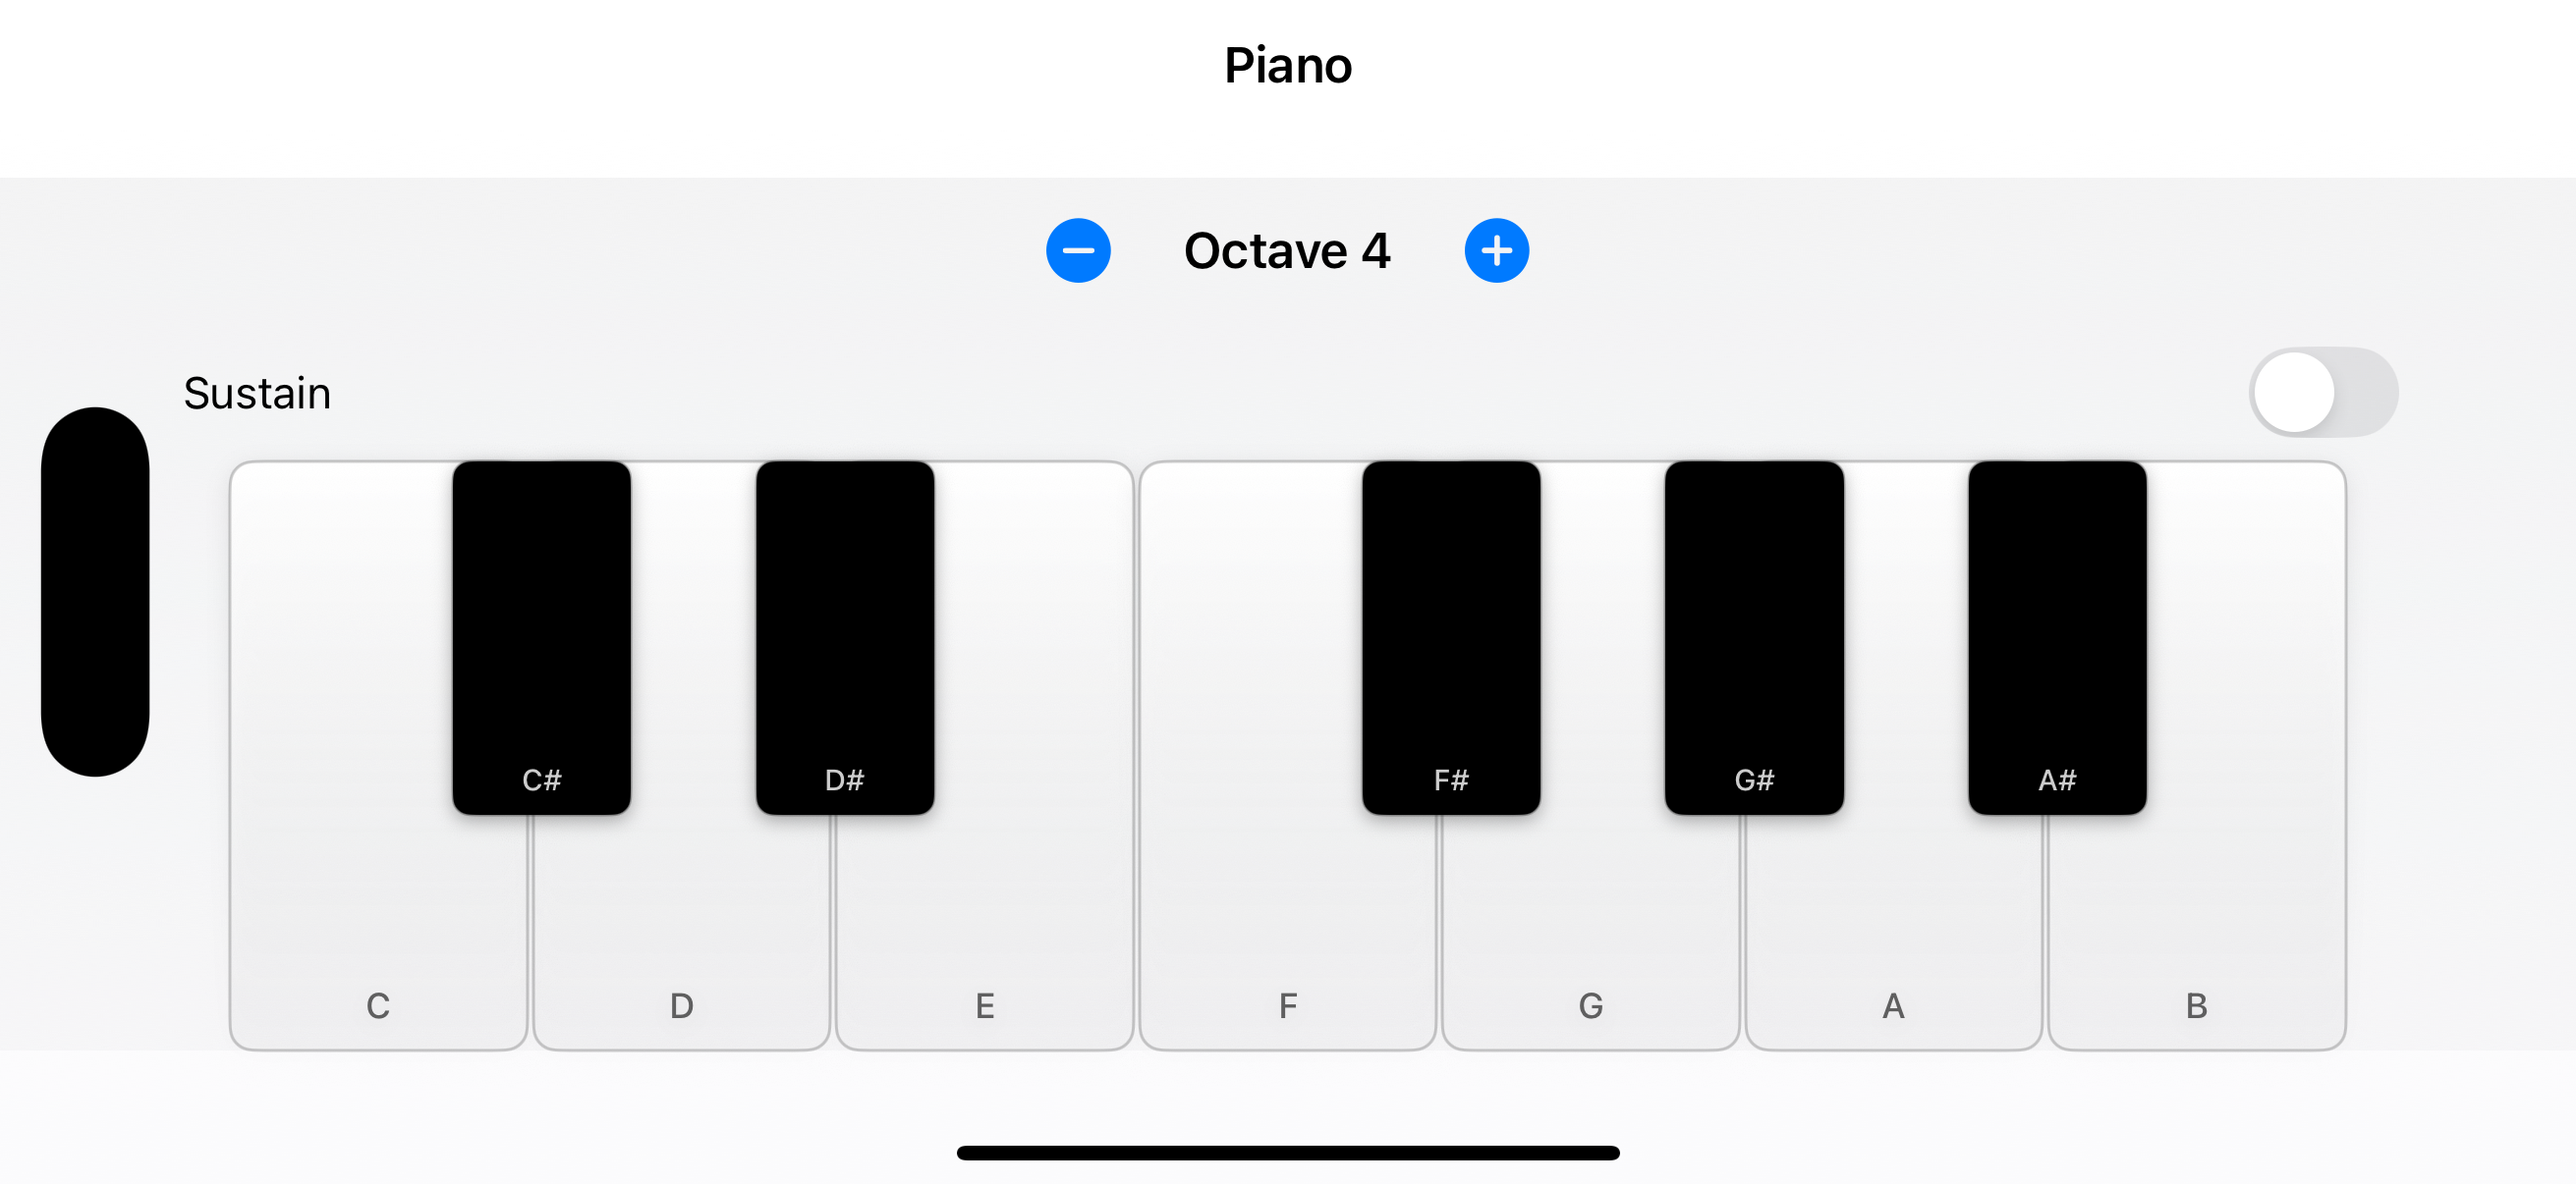
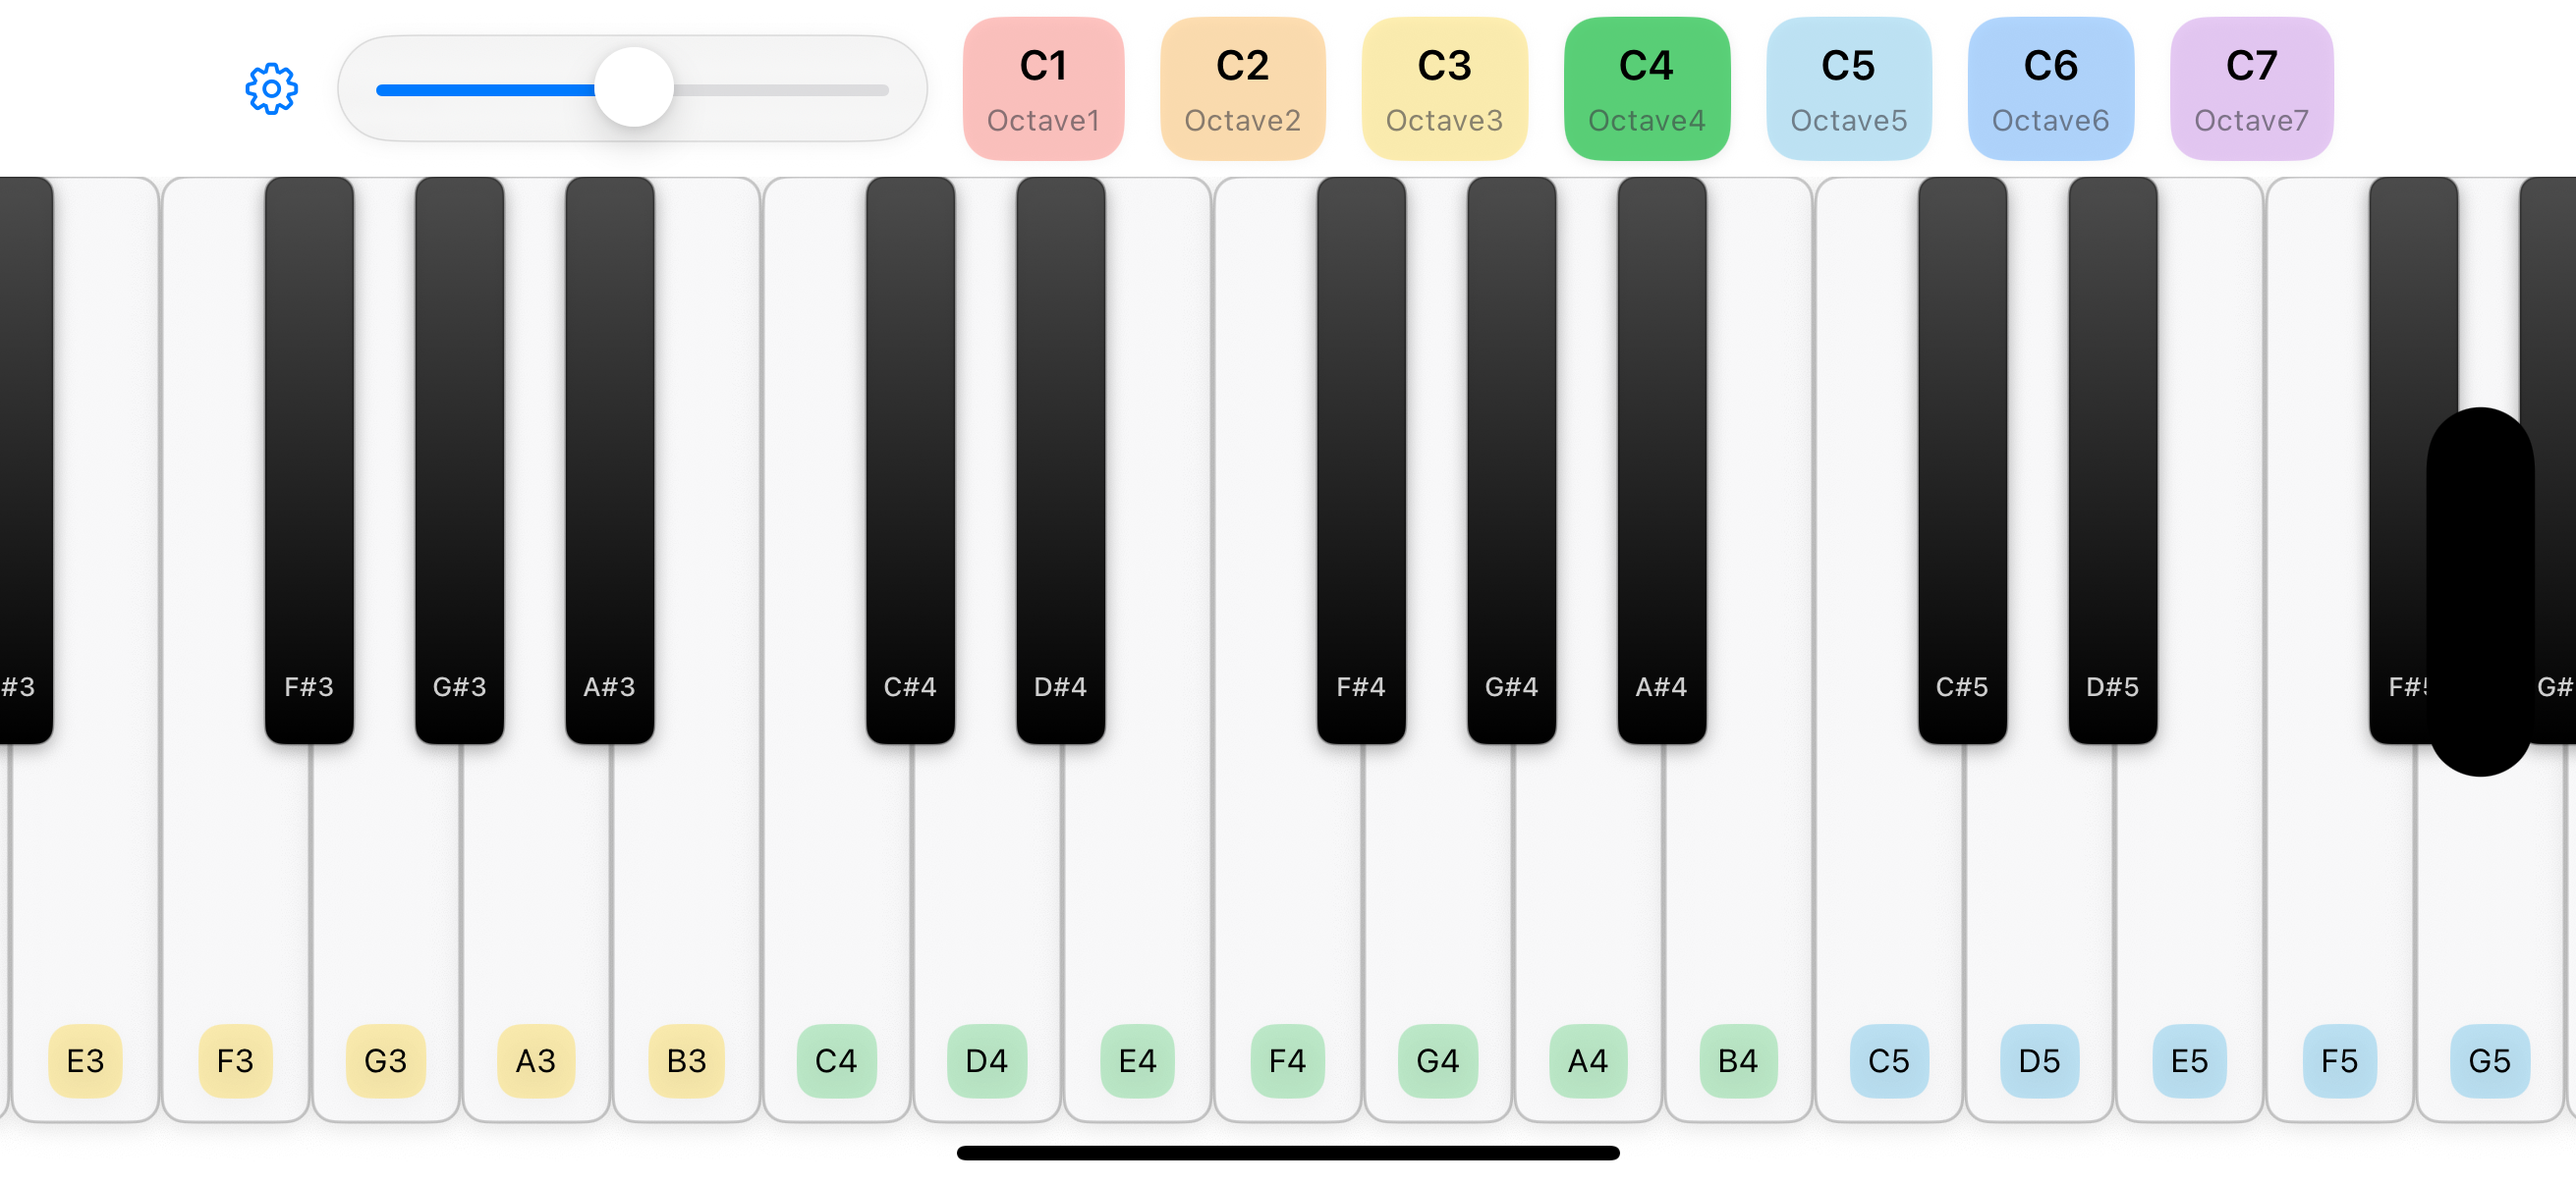
Update readme

diff --git a/README.md b/README.md
@@ -1,97 +1,95 @@
 ## 🎹 Piano
 
-A simple, fast, and accessible iOS piano keyboard built with SwiftUI and AVAudioEngine. It uses MVVM with Swift Concurrency and the `@Observable` macro to manage view state, and loads a SoundFont (`Piano.sf2`) for realistic piano playback.
+A modern, responsive iOS piano keyboard built with SwiftUI and AVAudioEngine. Features a scrollable 7-octave keyboard with customizable settings, haptic feedback, and realistic piano sound using SoundFont technology.
 
 <img src="screenshots/1.png" alt="Piano screenshot" width="480" />
 
 ### ✨ Features
-- 🎵 Play piano notes with low-latency audio
-- 🧭 SwiftUI interface with responsive keys
-- 🧠 MVVM with `@Observable` and `@MainActor`-scoped ViewModels
-- 🎛 SoundFont-backed timbre via `AVAudioUnitSampler`
-- 🧩 Lightweight model types for notes and keys
+- **🎹 7-Octave Keyboard**: Full piano range from C1 to B7 with smooth horizontal scrolling
+- **🧭 Interactive Navigation**: Octave buttons and scroll slider for quick navigation
+- **⚙ Customizable Settings**: Adjustable key width, key name display options, and haptic feedback
+- **🎵 Realistic Audio**: SoundFont-backed piano sound with low-latency playback
+- **📱 Modern UI**: SwiftUI interface with responsive keys and smooth animations
+- **🏗 MVVM Architecture**: Clean separation with `@Observable` view models and Swift concurrency
 
-### 🧱 Architecture
-- **Pattern**: MVVM
-- **ViewModel**: Annotated with `@Observable` and `@MainActor` to ensure UI-safe state updates
-- **Concurrency**: Uses Swift concurrency instead of Combine for async work
-- **Audio**: `AVAudioEngine` + `AVAudioUnitSampler` to load and play `Piano.sf2`
+### 🏗 Architecture
+- **📋 Pattern**: MVVM with Swift concurrency
+- **🎛 ViewModel**: `@Observable` and `@MainActor`-scoped for UI-safe state management
+- **🔊 Audio**: `AVAudioEngine` + `AVAudioUnitSampler` for SoundFont playback
+- **💾 State Management**: User preferences stored with `@AppStorage`
 
-High-level flow:
-- 📱 `View` renders keys and forwards user interactions to `ViewModel`
-- 🎚 `ViewModel` updates state and invokes `AudioEngine` services
-- 🔊 `Service` handles audio session, engine graph, and SoundFont loading
+**🔄 Data Flow**:
+- 📱 `PianoView` renders the scrollable keyboard and handles user interactions
+- 🎚 `PianoViewModel` manages key state, scroll position, and audio playback
+- 🔊 `AudioEngine` service handles audio session and SoundFont loading
+- ⚙ `SettingsView` provides customization options with persistent storage
 
 ### 🛠 Requirements
-- Xcode 15 or later
-- iOS 17 or later (SwiftUI `@Observable` macro)
-- macOS Sonoma or later for development
+- 💻 Xcode 15 or later
+- 📱 iOS 17 or later (SwiftUI `@Observable` macro)
+- 🖥 macOS Sonoma or later for development
 
-### 🚀 Getting started
-1. Clone the repository
+### 🚀 Getting Started
+1. 📥 Clone the repository
 ```bash
 git clone https://github.com/banghuazhao/Piano.git
 cd Piano
 ```
-2. Open the project in Xcode
+2. 🔧 Open the project in Xcode
 ```bash
 open Piano.xcodeproj
 ```
-3. Select the `Piano` scheme and a simulator or device, then Run.
+3. ▶ Select the `Piano` scheme and a simulator or device, then Run.
 
-If you replace the SoundFont, put your `.sf2` file in `Piano/Sound/` and update the load call if needed.
+**📝 Note**: If you replace the SoundFont, put your `.sf2` file in `Piano/Sound/` and update the load call if needed.
 
-### 🗂 Project structure
+### 📁 Project Structure
 ```text
 Piano/
-  App/                 # App entry (`PianoApp.swift`)
-  Sound/               # SoundFont (`Piano.sf2`)
-  Assets.xcassets/     # App icons and colors
-  Config/              # Build configurations
-  Model/               # `PianoKey`, `PianoNote`
-  Service/             # `AudioEngine`
-  View/                # `ContentView`, `PianoKeyboardView`, `PianoKeyView`
-  ViewModel/           # `PianoViewModel`
+  App/                 # 🚀 App entry point (`PianoApp.swift`)
+  Sound/               # 🎵 SoundFont file (`Piano.sf2`)
+  Assets.xcassets/     # 🎨 App icons and colors
+  Config/              # ⚙ Build configurations
+  Model/               # 📋 `PianoKey`, `PianoNote`, `OctaveColor`
+  Service/             # 🔊 `AudioEngine` for audio playback
+  View/                # 📱 `PianoView`, `PianoKeyView`, `SettingsView`
+  ViewModel/           # 🎛 `PianoViewModel` with @Observable
 ```
 
 ### 🎼 Usage
-- Tap keys to play notes
-- Velocity is currently uniform; you can extend the model to vary velocity by touch pressure (where available) or vertical position
-- Replace `Piano.sf2` to change timbre; ensure the file is included in the app bundle
-
-### ✅ Testing
-This project uses the Swift Testing framework (`import Testing`) rather than XCTest.
-- Add tests under a `Tests` target using Swift Testing conventions
-- Example scaffold:
-```swift
-import Testing
-@testable import Piano
-
-struct PianoTests {
-    @Test func canInstantiateViewModel() async throws {
-        _ = PianoViewModel()
-    }
-}
-```
+- **🎹 Playing Notes**: Tap any key to play piano notes with realistic sound
+- **🧭 Navigation**: 
+  - Use octave buttons (C1-C7) to jump to specific octaves
+  - Drag the scroll slider to navigate smoothly across the keyboard
+  - Swipe horizontally on the keyboard for fine control
+- **⚙ Settings**: Tap the gear icon to access:
+  - Key width adjustment (30-80 points)
+  - Show/hide key names on keys
+  - Toggle haptic feedback
+  - Octave-specific key name display options
+- **🎨 Customization**: Replace `Piano.sf2` with your own SoundFont file to change the piano sound
 
 ### 🗺 Roadmap
-- Sustain pedal and multi-touch chord improvements
-- Configurable key ranges and octaves
-- MIDI input/output support
-- Visual feedback for active notes
-- Basic recording and playback
+- **👆 Multi-touch Support**: Enhanced chord playing with multiple simultaneous notes
+- **🎛 Sustain Pedal**: Virtual sustain pedal functionality
+- **🎹 MIDI Support**: MIDI input/output for external controllers
+- **🎙 Recording**: Basic recording and playback capabilities
+- **✨ Visual Feedback**: Enhanced visual indicators for active notes
+- **🎚 Custom Key Ranges**: Configurable octave ranges and key layouts
 
 ### 🤝 Contributing
-- Open an issue or pull request on GitHub
-- Keep to MVVM with `@Observable` view models and Swift concurrency
-- Prefer small, well-scoped changes
+- 📝 Open an issue or pull request on GitHub
+- 🏗 Follow MVVM architecture with `@Observable` view models and Swift concurrency
+- 🔧 Prefer small, well-scoped changes
+- 📚 Maintain consistent code style and documentation
 
 ### 📄 License
 No license file is included yet. If you intend to use this project beyond personal use, please add a license.
 
 ### 🙏 Acknowledgements
-- Built with SwiftUI and AVFoundation
-- Uses a bundled SoundFont file (`Piano.sf2`). Replace with your own if licensing requires.
+- 🛠 Built with SwiftUI and AVFoundation
+- 🎵 Uses a bundled SoundFont file (`Piano.sf2`). Replace with your own if licensing requires.
+- © Copyright Apps Bay Limited. All rights reserved.
 
 ### 🔗 Links
-- Repository: `https://github.com/banghuazhao/Piano`
+- 📦 Repository: `https://github.com/banghuazhao/Piano`
